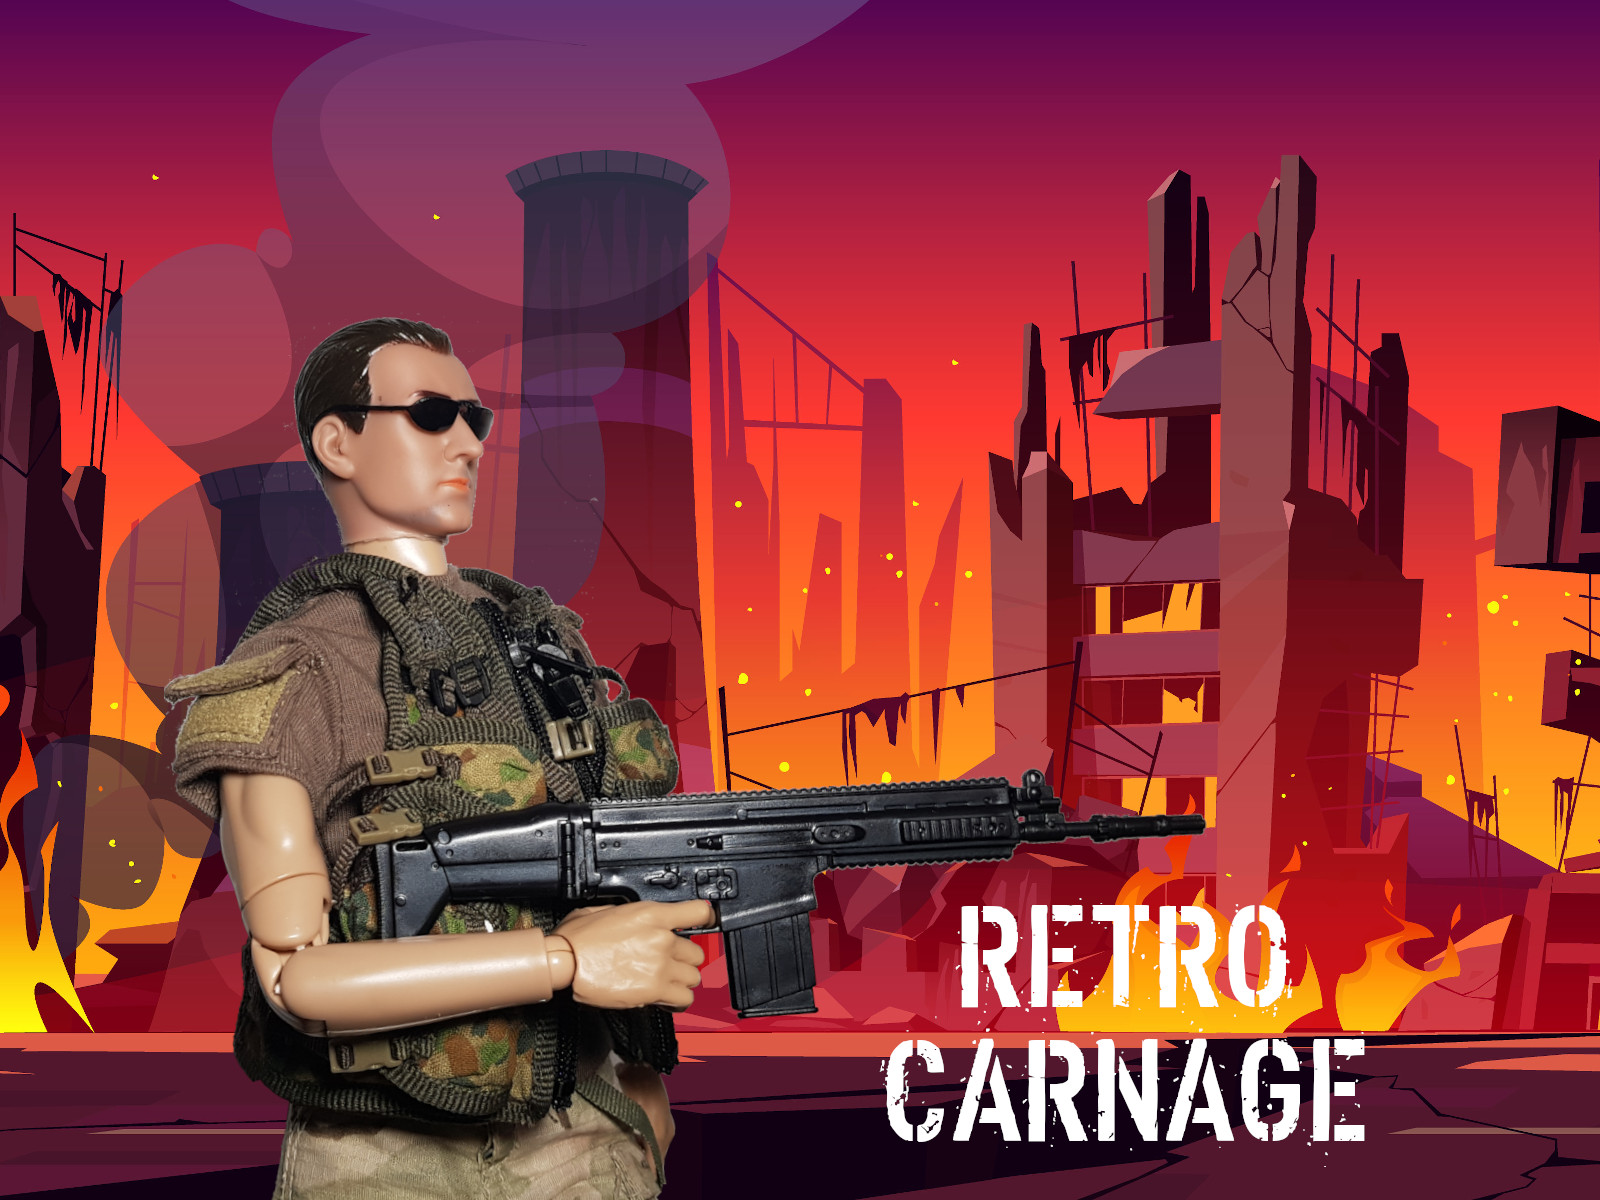
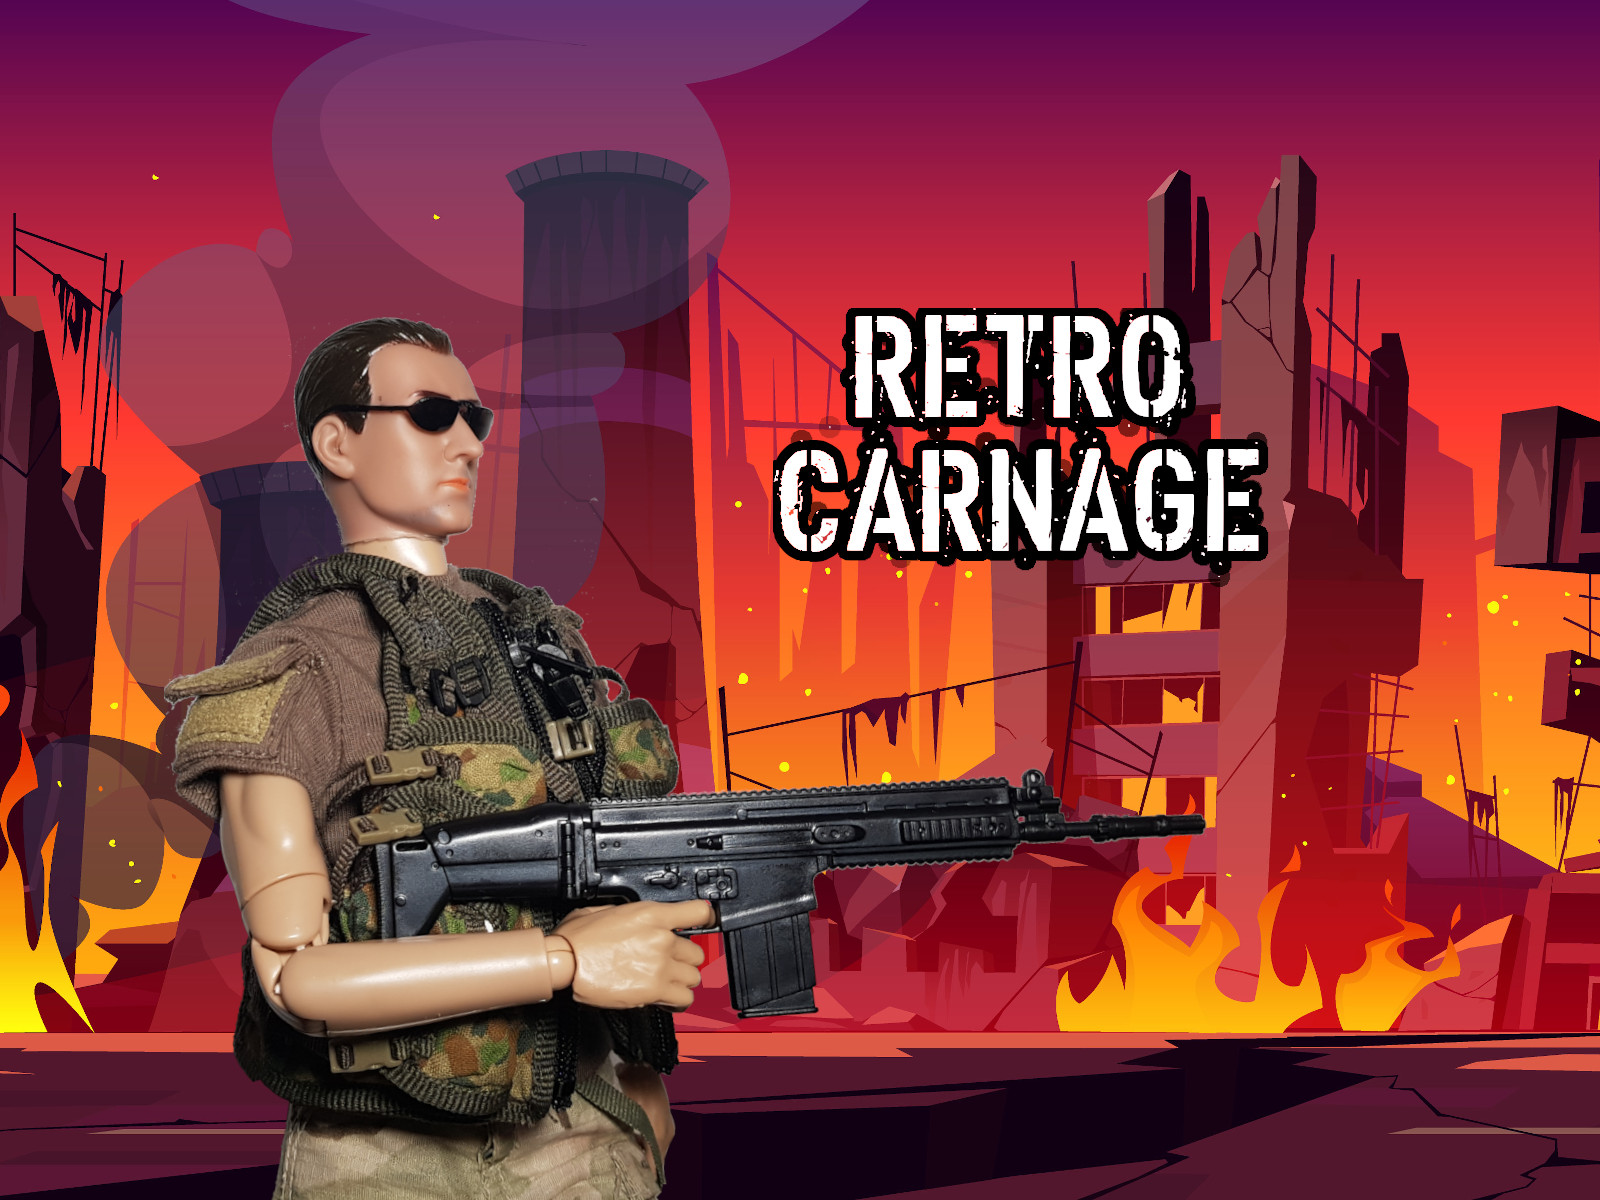
Worked on title screen and refactored some code

Changed region(s): [[0.4688, 0.2467, 0.8125, 0.4933], [0.5312, 0.74, 0.875, 0.9558]]

diff --git a/src/network/http-backend.go b/src/network/http-backend.go
@@ -5,7 +5,7 @@ import (
 	"encoding/json"
 	"io/ioutil"
 	"net/http"
-	"retro-carnage.net/util"
+	"retro-carnage.net/logging"
 	"time"
 )
 
@@ -35,26 +35,26 @@ const backendUrl = "https://backend.retro-carnage.net"
 func (hb *httpBackend) StartGameSession() {
 	response, err := http.Post(backendUrl+"/usage/start-game", "application/json", nil)
 	if nil != err {
-		util.Warning.Printf("Failed to start game session: %v", err)
+		logging.Warning.Printf("Failed to start game session: %v", err)
 	}
 	defer response.Body.Close()
 
 	if response.StatusCode == http.StatusCreated {
 		bodyBytes, err := ioutil.ReadAll(response.Body)
 		if err != nil {
-			util.Warning.Printf("Failed to start game session. Failed to read server response: %v", err)
+			logging.Warning.Printf("Failed to start game session. Failed to read server response: %v", err)
 			return
 		}
 
 		var usage usageResponse
 		err = json.Unmarshal(bodyBytes, &usage)
 		if err != nil {
-			util.Warning.Printf("Failed to start game session. Failed to parse server response: %v", err)
+			logging.Warning.Printf("Failed to start game session. Failed to parse server response: %v", err)
 			return
 		}
 
 		hb.gameId = usage.GameId
-		util.Info.Printf("Created game session with ID '%s'", hb.gameId)
+		logging.Info.Printf("Created game session with ID '%s'", hb.gameId)
 	}
 }
 
@@ -62,15 +62,15 @@ func (hb *httpBackend) ReportGameState(screenName string) {
 	var url = backendUrl + "/usage/" + hb.gameId + "/next-screen/" + screenName
 	response, err := http.Post(url, "application/json", nil)
 	if nil != err {
-		util.Warning.Printf("Failed to report game state: %v", err)
+		logging.Warning.Printf("Failed to report game state: %v", err)
 		return
 	}
 	defer response.Body.Close()
 
 	if response.StatusCode == http.StatusOK {
-		util.Info.Printf("Reported game progress to screen '%s'", screenName)
+		logging.Info.Printf("Reported game progress to screen '%s'", screenName)
 	} else {
-		util.Warning.Printf("Failed to report game progress to screen '%s'", screenName)
+		logging.Warning.Printf("Failed to report game progress to screen '%s'", screenName)
 	}
 }
 
@@ -83,19 +83,19 @@ func (hb *httpBackend) ReportError(error error) {
 
 	data, err := json.Marshal(errorRequest)
 	if err != nil {
-		util.Error.Printf("Failed to report error. Unable to build request: %v", err)
+		logging.Error.Printf("Failed to report error. Unable to build request: %v", err)
 		return
 	}
 
 	response, err := http.Post(url, "application/json", bytes.NewBuffer(data))
 	if nil != err {
-		util.Warning.Printf("Failed to report error: %v", err)
+		logging.Warning.Printf("Failed to report error: %v", err)
 	}
 	defer response.Body.Close()
 
 	if response.StatusCode == http.StatusCreated {
-		util.Info.Printf("Reported error: '%v'", error)
+		logging.Info.Printf("Reported error: '%v'", error)
 	} else {
-		util.Warning.Printf("Failed to report error: %v", err)
+		logging.Warning.Printf("Failed to report error: %v", err)
 	}
 }

diff --git a/src/ui/title/screen.go b/src/ui/title/screen.go
@@ -3,39 +3,59 @@
 package title
 
 import (
+	"github.com/faiface/pixel"
 	"github.com/faiface/pixel/pixelgl"
-	"golang.org/x/image/colornames"
+	"image"
+	_ "image/jpeg"
+	"os"
 	"retro-carnage.net/engine/geometry"
+	"retro-carnage.net/logging"
 	"retro-carnage.net/ui/util"
+	commonUtil "retro-carnage.net/util"
 )
 
-const screenTimeout = 5000
+const backgroundImagePath = "./images/backgrounds/title.jpg"
 
 type Screen struct {
-	screenChangeRequired util.ScreenChangeCallback
-	screenChangeTimeout  int64
-	textDimensions       map[string]*geometry.Point
-	Window               *pixelgl.Window
+	backgroundImageSprite *pixel.Sprite
+	screenChangeRequired  util.ScreenChangeCallback
+	textDimensions        map[string]*geometry.Point
+	Window                *pixelgl.Window
 }
 
 func (s *Screen) SetUp(screenChangeRequired util.ScreenChangeCallback) {
 	s.screenChangeRequired = screenChangeRequired
-	s.screenChangeTimeout = 0
+
+	var backgroundImage = loadBackgroundImage()
+	s.backgroundImageSprite = pixel.NewSprite(backgroundImage, backgroundImage.Bounds())
 }
 
-func (s *Screen) Update(elapsedTimeInMs int64) {
-	s.screenChangeTimeout += elapsedTimeInMs
-	if s.screenChangeTimeout >= screenTimeout {
-		// s.screenChangeRequired(util.Title)
-		// util.Info.Println("Moving forward to config screen")
-	}
-	s.Window.Clear(colornames.Blue)
+func (s *Screen) Update(_ int64) {
+	var factorX = s.Window.Bounds().Max.X / s.backgroundImageSprite.Picture().Bounds().Max.X
+	var factorY = s.Window.Bounds().Max.X / s.backgroundImageSprite.Picture().Bounds().Max.X
+	var factor = commonUtil.Max(factorX, factorY)
+
+	s.backgroundImageSprite.Draw(s.Window,
+		pixel.IM.Scaled(pixel.Vec{X: 0, Y: 0}, factor).Moved(s.Window.Bounds().Center()))
 }
 
-func (s *Screen) TearDown() {
-
-}
+func (s *Screen) TearDown() {}
 
 func (s *Screen) String() string {
 	return string(util.Title)
+}
+
+func loadBackgroundImage() pixel.Picture {
+	file, err := os.Open(backgroundImagePath)
+	if err != nil {
+		logging.Error.Fatalf("Failed to load background image for title screen: %v", err)
+		return nil
+	}
+	defer file.Close()
+	img, _, err := image.Decode(file)
+	if err != nil {
+		logging.Error.Fatalf("Failed to decode background image for title screen: %v", err)
+		return nil
+	}
+	return pixel.PictureDataFromImage(img)
 }

diff --git a/src/ui/util/stereo.go b/src/ui/util/stereo.go
@@ -9,6 +9,7 @@ import (
 	"os"
 	"path/filepath"
 	"retro-carnage.net/assets"
+	"retro-carnage.net/logging"
 	"retro-carnage.net/util"
 	"time"
 )
@@ -42,7 +43,7 @@ func (sb *Stereo) initialize() {
 	var mp3Format = beep.Format{SampleRate: 32000, NumChannels: 2, Precision: 2}
 	err := speaker.Init(mp3Format.SampleRate, mp3Format.SampleRate.N(time.Second/10))
 	if err != nil {
-		util.Error.Println(err.Error())
+		logging.Error.Println(err.Error())
 	}
 
 	sb.mixer = &beep.Mixer{}
@@ -52,7 +53,7 @@ func (sb *Stereo) initialize() {
 	for _, fx := range assets.SoundEffects {
 		sound, err := loadSoundEffect(fx)
 		if err != nil {
-			util.Error.Panicln(err.Error())
+			logging.Error.Panicln(err.Error())
 		} else {
 			sb.effects[fx] = sound
 		}
@@ -84,7 +85,7 @@ func (sb *Stereo) PlaySong(song assets.Song) {
 		var err error = nil
 		aSound, err = loadMusic(song)
 		if err != nil {
-			util.Error.Panicln(err.Error())
+			logging.Error.Panicln(err.Error())
 		}
 		sb.music[song] = aSound
 	}
@@ -110,7 +111,7 @@ func loadSoundEffect(fx assets.SoundEffect) (sound, error) {
 	}
 
 	_ = stopWatch.Stop()
-	util.Trace.Println(stopWatch.DebugMessage())
+	logging.Trace.Println(stopWatch.DebugMessage())
 
 	if isLoopingEffect(fx) {
 		return &loopingSound{buffer: buffer}, nil
@@ -129,7 +130,7 @@ func loadMusic(song assets.Song) (sound, error) {
 	}
 
 	_ = stopWatch.Stop()
-	util.Trace.Println(stopWatch.DebugMessage())
+	logging.Trace.Println(stopWatch.DebugMessage())
 
 	return &loopingSound{buffer: buffer}, nil
 }

diff --git a/src/engine/geometry/rectangle.go b/src/engine/geometry/rectangle.go
@@ -25,12 +25,10 @@ func (r *Rectangle) Subtract(offset *Point) *Rectangle {
 }
 
 func (r *Rectangle) GetIntersection(other *Rectangle) *Rectangle {
-	var mu = util.MathUtil{}
-
-	var leftX = mu.Max(r.X, other.X)
-	var rightX = mu.Min(r.X+r.Width, other.X+other.Width)
-	var topY = mu.Max(r.Y, other.Y)
-	var bottomY = mu.Min(r.Y+r.Height, other.Y+other.Height)
+	var leftX = util.Max(r.X, other.X)
+	var rightX = util.Min(r.X+r.Width, other.X+other.Width)
+	var topY = util.Max(r.Y, other.Y)
+	var bottomY = util.Min(r.Y+r.Height, other.Y+other.Height)
 	if leftX < rightX && topY < bottomY {
 		return &Rectangle{X: leftX, Y: topY, Width: rightX - leftX, Height: bottomY - topY}
 	}

diff --git a/src/network/mock-backend.go b/src/network/mock-backend.go
@@ -1,19 +1,19 @@
 package network
 
 import (
-	"retro-carnage.net/util"
+	"retro-carnage.net/logging"
 )
 
 type mockBackend struct{}
 
 func (*mockBackend) StartGameSession() {
-	util.Info.Print("Started game session")
+	logging.Info.Print("Started game session")
 }
 
 func (*mockBackend) ReportGameState(screenName string) {
-	util.Info.Printf("Reported game progress to: %s", screenName)
+	logging.Info.Printf("Reported game progress to: %s", screenName)
 }
 
 func (*mockBackend) ReportError(error error) {
-	util.Info.Printf("Reported error: %s", error)
+	logging.Info.Printf("Reported error: %s", error)
 }

diff --git a/src/ui/util/fonts.go b/src/ui/util/fonts.go
@@ -8,7 +8,7 @@ import (
 	"io/ioutil"
 	"os"
 	"retro-carnage.net/engine/geometry"
-	"retro-carnage.net/util"
+	"retro-carnage.net/logging"
 	"unicode"
 )
 
@@ -19,7 +19,7 @@ var DefaultAtlas *text.Atlas
 func InitializeFonts() {
 	defaultFont, err := loadTTF(defaultFontPath, 52)
 	if nil != err {
-		util.Error.Panicf("Failed to load font %s: %v", defaultFontPath, err)
+		logging.Error.Panicf("Failed to load font %s: %v", defaultFontPath, err)
 	}
 	DefaultAtlas = text.NewAtlas(defaultFont, text.ASCII, text.RangeTable(unicode.Latin))
 }

diff --git a/src/ui/util/colors.go b/src/ui/util/colors.go
@@ -3,7 +3,7 @@ package util
 import (
 	"fmt"
 	"image/color"
-	"retro-carnage.net/util"
+	"retro-carnage.net/logging"
 )
 
 var (
@@ -16,7 +16,7 @@ func parseHexColor(s string) (c color.RGBA) {
 	c.A = 0xff
 	_, err := fmt.Sscanf(s, "#%02x%02x%02x", &c.R, &c.G, &c.B)
 	if nil != err {
-		util.Error.Panicf("Failed to parse Hex formatted color: %v", err)
+		logging.Error.Panicf("Failed to parse Hex formatted color: %v", err)
 	}
 	return
 }

diff --git a/src/main.go b/src/main.go
@@ -4,7 +4,7 @@ import (
 	"github.com/faiface/pixel"
 	"github.com/faiface/pixel/pixelgl"
 	"retro-carnage.net/ui"
-	uiUtil "retro-carnage.net/ui/util"
+	"retro-carnage.net/ui/util"
 )
 
 func run() {
@@ -24,8 +24,8 @@ func run() {
 
 	win.SetSmooth(true)
 
-	uiUtil.InitializeFonts()
-	uiUtil.NewStereo()
+	util.InitializeFonts()
+	util.NewStereo()
 
 	var mainScreen = ui.MainScreen{Monitor: monitor, Window: win}
 	mainScreen.Initialize()

diff --git a/src/engine/geometry/movement.go b/src/engine/geometry/movement.go
@@ -8,7 +8,7 @@ import (
 func calculateMovementDistance(elapsedTimeInMs int64, distancePerMs float64, maxDistance *float64) float64 {
 	var distance = float64(elapsedTimeInMs) * distancePerMs
 	if nil != maxDistance {
-		return util.MathUtil{}.Min(*maxDistance, distance)
+		return util.Min(*maxDistance, distance)
 	}
 	return distance
 }

diff --git a/src/util/math.go b/src/util/math.go
@@ -1,15 +1,13 @@
 package util
 
-type MathUtil struct{}
-
-func (mu MathUtil) Max(a float64, b float64) float64 {
+func Max(a float64, b float64) float64 {
 	if a > b {
 		return a
 	}
 	return b
 }
 
-func (mu MathUtil) Min(a float64, b float64) float64 {
+func Min(a float64, b float64) float64 {
 	if a < b {
 		return a
 	}

diff --git a/src/ui/loading/screen.go b/src/ui/loading/screen.go
@@ -59,9 +59,7 @@ func (s *Screen) Update(elapsedTimeInMs int64) {
 	}
 }
 
-func (s *Screen) TearDown() {
-
-}
+func (s *Screen) TearDown() {}
 
 func (s *Screen) String() string {
 	return string(util.Loading)

diff --git a/src/ui/start/screen.go b/src/ui/start/screen.go
@@ -56,9 +56,7 @@ func (s *Screen) Update(elapsedTimeInMs int64) {
 	}
 }
 
-func (s *Screen) TearDown() {
-
-}
+func (s *Screen) TearDown() {}
 
 func (s *Screen) String() string {
 	return string(util.Start)
